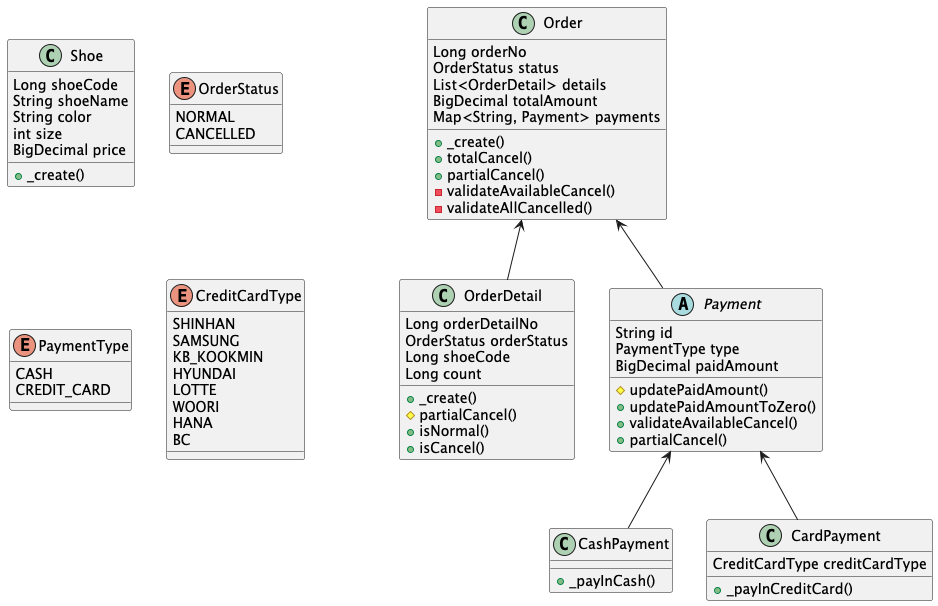
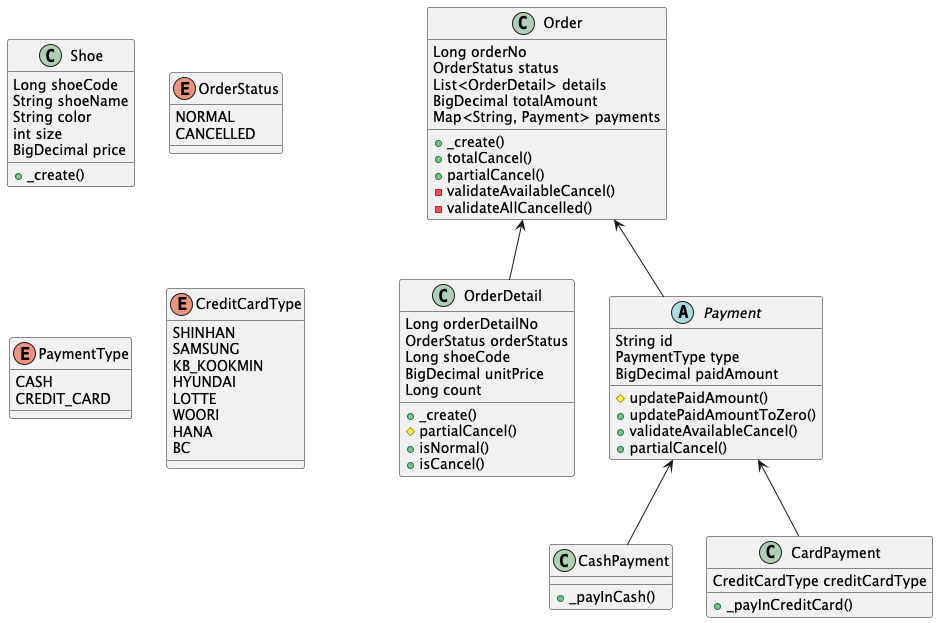
Feature : [#5] add unit price at OrderDetail

diff --git a/src/main/java/com/abcmart/shoestore/order/application/OrderService.java b/src/main/java/com/abcmart/shoestore/order/application/OrderService.java
@@ -1,14 +1,14 @@
 package com.abcmart.shoestore.order.application;
 
 import com.abcmart.shoestore.order.application.request.CreateOrderRequest;
-import com.abcmart.shoestore.payment.domain.CardPayment;
-import com.abcmart.shoestore.payment.domain.CashPayment;
 import com.abcmart.shoestore.order.domain.Order;
 import com.abcmart.shoestore.order.domain.OrderDetail;
-import com.abcmart.shoestore.payment.domain.Payment;
-import com.abcmart.shoestore.shoe.domain.Shoe;
 import com.abcmart.shoestore.order.dto.OrderDto;
 import com.abcmart.shoestore.order.repository.OrderRepository;
+import com.abcmart.shoestore.payment.domain.CardPayment;
+import com.abcmart.shoestore.payment.domain.CashPayment;
+import com.abcmart.shoestore.payment.domain.Payment;
+import com.abcmart.shoestore.shoe.domain.Shoe;
 import com.abcmart.shoestore.shoe.repository.ShoeRepository;
 import java.math.BigDecimal;
 import java.util.List;
@@ -30,19 +30,26 @@ public class OrderService {
     @Transactional
     public OrderDto createOrder(CreateOrderRequest request) {
 
-        // 주문 항목 생성
-        List<OrderDetail> details = request.getOrderDetails().stream()
-            .map(orderDetail -> OrderDetail.create(orderDetail.getShoeCode(),
-                orderDetail.getCount()))
-            .toList();
-
-        // 신발들을 조회하여 전체 가격 계산
+        // 주문을 원하는 신발의 가격 조회
         List<Long> shoeCodes = request.getOrderDetails().stream()
             .map(CreateOrderRequest.CreateOrderDetailRequest::getShoeCode).toList();
         Map<Long, Shoe> shoeMap = shoeRepository.findAllByShoeCodes(shoeCodes).stream()
             .collect(Collectors.toMap(Shoe::getShoeCode, Function.identity()));
 
-        BigDecimal totalPrice = calculateTotalPrice(shoeMap, request.getOrderDetails());
+        // 주문 항목 생성
+        List<OrderDetail> details = request.getOrderDetails().stream()
+            .filter(requestedDetail -> Objects.nonNull(shoeMap.get(requestedDetail.getShoeCode())))
+            .map(requestedDetail ->
+                OrderDetail.create(
+                    requestedDetail.getShoeCode(),
+                    shoeMap.get(requestedDetail.getShoeCode()).getPrice(),
+                    requestedDetail.getCount()
+                )
+            )
+            .toList();
+
+        // 전체 가격 계산
+//        BigDecimal totalPrice = calculateTotalPrice(shoeMap, request.getOrderDetails());
 
         // 결제 방식 생성
         List<Payment> payments = request.getPayments().stream()
@@ -56,7 +63,7 @@ public class OrderService {
             .toList();
 
         // 주문 생성 및 저장
-        Order order = Order.create(details, totalPrice, payments);
+        Order order = Order.create(details, payments);
         Order savedOrder = orderRepository.save(order);
 
         return OrderDto.from(savedOrder);

diff --git a/src/main/java/com/abcmart/shoestore/order/domain/Order.java b/src/main/java/com/abcmart/shoestore/order/domain/Order.java
@@ -34,19 +34,22 @@ public class Order {
     @NotEmpty
     private Map<String, Payment> payments;
 
-    private Order(List<OrderDetail> details, BigDecimal totalAmount, List<Payment> payments) {
+    private Order(List<OrderDetail> details, List<Payment> payments) {
 
         this.status = OrderStatus.NORMAL;
         this.details = details;
-        this.totalAmount = totalAmount;
+        this.totalAmount = details.stream()
+            .map(detail ->
+                detail.getUnitPrice().multiply(BigDecimal.valueOf(detail.getCount()))
+            )
+            .reduce(BigDecimal.ZERO, BigDecimal::add);
         this.payments = payments.stream()
             .collect(Collectors.toMap(Payment::getId, Function.identity()));
     }
 
-    public static Order create(List<OrderDetail> detailEntities, BigDecimal totalAmount,
-        List<Payment> payments) {
+    public static Order create(List<OrderDetail> detailEntities, List<Payment> payments) {
 
-        return new Order(detailEntities, totalAmount, payments);
+        return new Order(detailEntities, payments);
     }
 
     public void totalCancel() {

diff --git a/src/main/java/com/abcmart/shoestore/order/domain/OrderDetail.java b/src/main/java/com/abcmart/shoestore/order/domain/OrderDetail.java
@@ -2,6 +2,7 @@ package com.abcmart.shoestore.order.domain;
 
 import jakarta.persistence.Id;
 import jakarta.validation.constraints.NotNull;
+import java.math.BigDecimal;
 import lombok.Getter;
 import lombok.NoArgsConstructor;
 
@@ -19,18 +20,22 @@ public class OrderDetail {
     private Long shoeCode;
 
     @NotNull
+    private BigDecimal unitPrice;
+
+    @NotNull
     private Long count;
 
-    private OrderDetail(Long shoeCode, Long count) {
+    private OrderDetail(Long shoeCode, BigDecimal unitPrice, Long count) {
 
         this.orderStatus = OrderStatus.NORMAL;
         this.shoeCode = shoeCode;
+        this.unitPrice = unitPrice;
         this.count = count;
     }
 
-    public static OrderDetail create(Long shoeCode, Long count) {
+    public static OrderDetail create(Long shoeCode, BigDecimal unitPrice, Long count) {
 
-        return new OrderDetail(shoeCode, count);
+        return new OrderDetail(shoeCode, unitPrice, count);
     }
 
     protected OrderDetail partialCancel(Long removeCount) {
